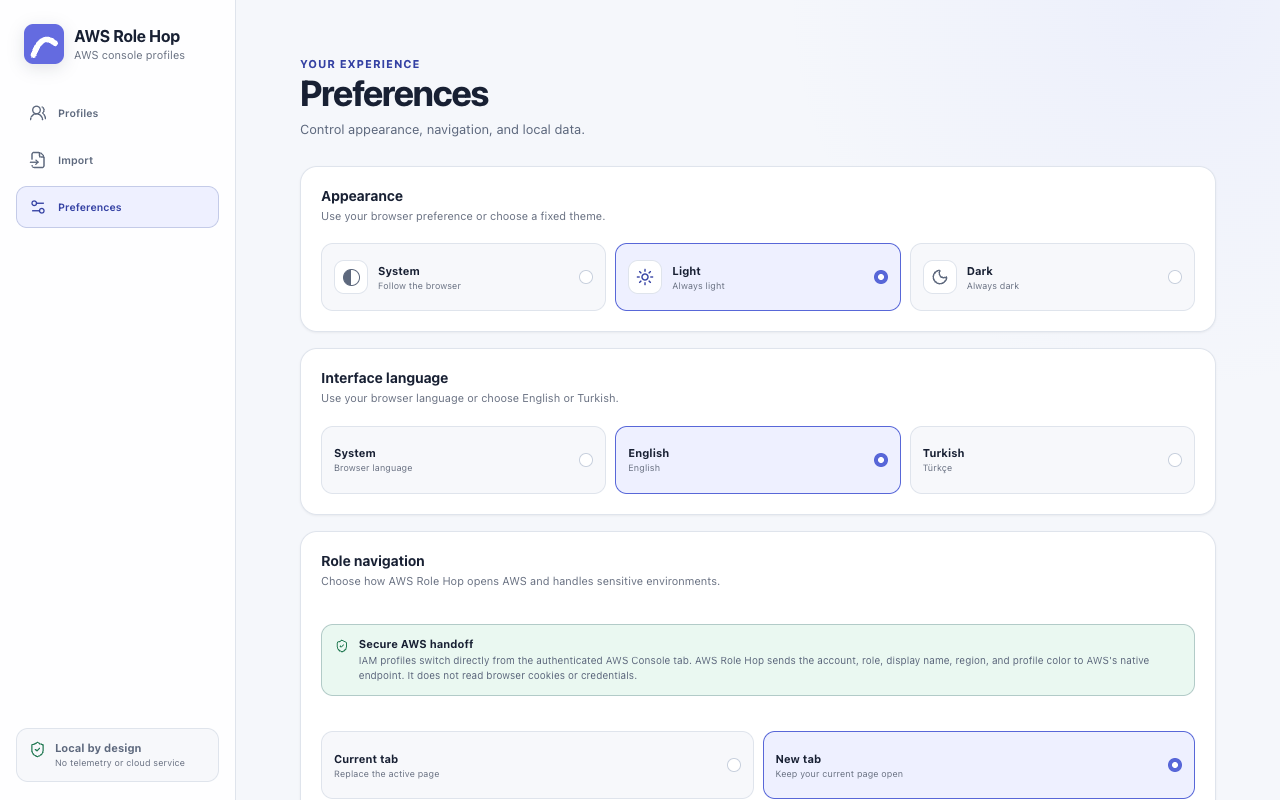
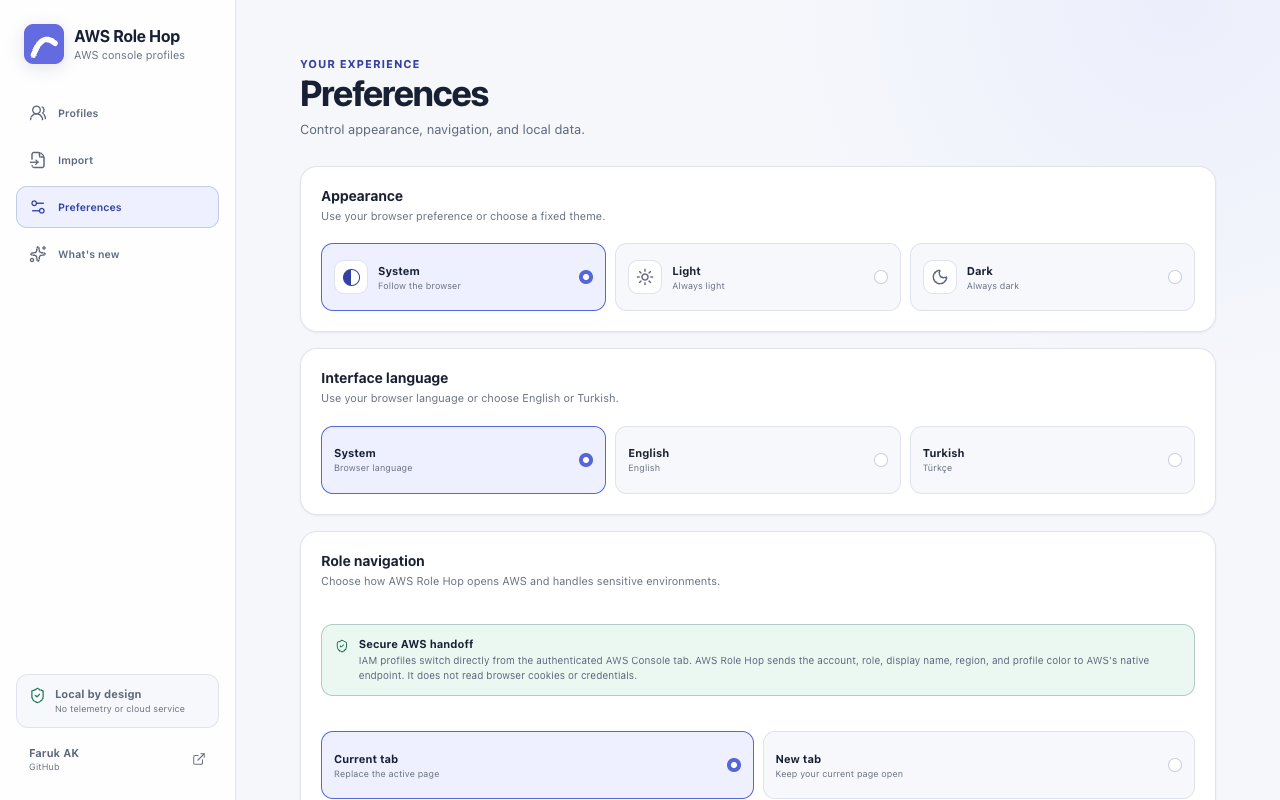
chore: prepare AWS Role Hop v0.1.1
Bump package metadata to 0.1.1, add bundled English and Turkish release notes for the persistent options navigation and creator credit, update changelog links, support multiple release cards in tests, and refresh the affected 1280x800 store screenshots. Full quality gate passes with 519 tests and 14 loaded-extension E2E tests.

diff --git a/src/entrypoints/options/WhatsNewView.test.tsx b/src/entrypoints/options/WhatsNewView.test.tsx
@@ -1,5 +1,5 @@
 /** @vitest-environment jsdom */
-import { render, screen } from '@testing-library/react';
+import { render, screen, within } from '@testing-library/react';
 import userEvent from '@testing-library/user-event';
 import { describe, expect, it, vi } from 'vitest';
 import { latestRelease } from '../../domain/release-notes';
@@ -11,13 +11,16 @@ describe('WhatsNewView', () => {
 
     const heading = screen.getByRole('heading', { level: 1, name: "What's new" });
     expect(document.activeElement).toBe(heading);
-    expect(
-      screen.getByRole('heading', {
-        level: 2,
-        name: `Version ${latestRelease().version}`,
-      }),
-    ).toBeDefined();
-    expect(screen.getAllByRole('listitem')).toHaveLength(latestRelease().highlights.length);
+    const releaseHeading = screen.getByRole('heading', {
+      level: 2,
+      name: `Version ${latestRelease().version}`,
+    });
+    const releaseCard = releaseHeading.closest('section');
+
+    expect(releaseCard).not.toBeNull();
+    expect(within(releaseCard!).getAllByRole('listitem')).toHaveLength(
+      latestRelease().highlights.length,
+    );
   });
 
   it('returns to preferences through the in-app action', async () => {

diff --git a/src/i18n/index.tsx b/src/i18n/index.tsx
@@ -301,6 +301,10 @@ const TURKISH_MESSAGES = {
   'Back to preferences': 'Tercihlere dön',
   'View full changelog on GitHub': 'Tüm değişiklik günlüğünü GitHub’da görüntüle',
   'Built by Faruk AK on GitHub': 'GitHub’da Faruk AK tarafından geliştirildi',
+  'Open release notes directly from the options sidebar.':
+    'Sürüm notlarını doğrudan seçenekler kenar çubuğundan aç.',
+  "Open Faruk AK's GitHub profile from below the Local by design card.":
+    'Faruk AK’nin GitHub profilini Local by design kartının altından aç.',
   'Organize AWS roles and Identity Center profiles in named local lists.':
     'AWS rollerini ve Identity Center profillerini adlandırılmış yerel listelerde düzenle.',
   "Switch IAM roles through AWS's native flow without an intermediate page.":

diff --git a/src/domain/release-notes.ts b/src/domain/release-notes.ts
@@ -8,6 +8,14 @@ export interface ReleaseNote {
 
 export const RELEASE_NOTES: readonly ReleaseNote[] = [
   {
+    version: '0.1.1',
+    date: '2026-08-09',
+    highlights: [
+      'Open release notes directly from the options sidebar.',
+      "Open Faruk AK's GitHub profile from below the Local by design card.",
+    ],
+  },
+  {
     version: '0.1.0',
     date: '2026-08-09',
     highlights: [

diff --git a/CHANGELOG.md b/CHANGELOG.md
@@ -6,6 +6,17 @@ to [Semantic Versioning](https://semver.org/spec/v2.0.0.html).
 
 ## [Unreleased]
 
+## [0.1.1] - 2026-08-09
+
+### Added
+
+- A permanent **What's new** item in the options sidebar for direct access to bundled release notes.
+- A visible **Faruk AK** creator credit directly below the **Local by design** card, linked safely to the developer's GitHub profile.
+
+### Changed
+
+- The release-notes sidebar item now exposes the active-page state to assistive technology and remains available in both English and Turkish.
+
 ## [0.1.0] - 2026-08-09
 
 ### Added
@@ -59,5 +70,6 @@ to [Semantic Versioning](https://semver.org/spec/v2.0.0.html).
 - All four modal dialogs expose an accessible name and description, the popup has a top-level heading, and both the popup and the options list announce how many profiles match the current search.
 - Removed a keyboard shortcut hint in the popup search field that no handler implemented and that showed a macOS-only key on every platform.
 
-[Unreleased]: https://github.com/farukak/aws-role-hop/compare/v0.1.0...HEAD
+[Unreleased]: https://github.com/farukak/aws-role-hop/compare/v0.1.1...HEAD
+[0.1.1]: https://github.com/farukak/aws-role-hop/compare/v0.1.0...v0.1.1
 [0.1.0]: https://github.com/farukak/aws-role-hop/releases/tag/v0.1.0
